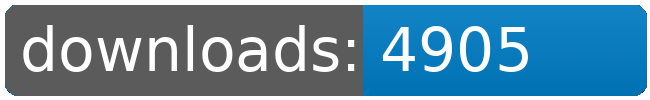
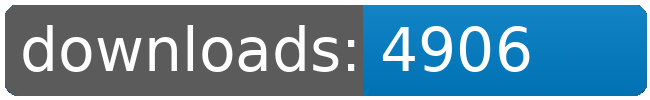
dl log written

Changed region(s): [[0.7692, 0.24, 0.8308, 0.72]]

diff --git a/README.md b/README.md
@@ -43,8 +43,8 @@
 		<td>5342</td>
 		<td>5374</td>
 		<td>5399</td>
-		<td>5418</td>
-		<td>+ 19</td>
+		<td>5419</td>
+		<td>+ 20</td>
 	</tr>
 	<tr>
 		<td>Jaws</td>
@@ -76,8 +76,8 @@
 		<td>4829</td>
 		<td>4864</td>
 		<td>4889</td>
-		<td>4905</td>
-		<td>+ 16</td>
+		<td>4906</td>
+		<td>+ 17</td>
 	</tr>
 	<tr>
 		<td>Solar.Sails</td>
@@ -109,8 +109,8 @@
 		<td></td>
 		<td></td>
 		<td></td>
-		<td>36275</td>
-		<td>145</td>
+		<td>36277</td>
+		<td>147</td>
 	</tr>
 </table>
 </sub></sup>
@@ -135,8 +135,8 @@
 		<td>5342</td>
 		<td>5374</td>
 		<td>5399</td>
-		<td>5418</td>
-		<td>+ 19</td>
+		<td>5419</td>
+		<td>+ 20</td>
 	</tr>
 	<tr>
 		<td>Louise.Conglomerate.Shipyards</td>
@@ -146,8 +146,8 @@
 		<td>4829</td>
 		<td>4864</td>
 		<td>4889</td>
-		<td>4905</td>
-		<td>+ 16</td>
+		<td>4906</td>
+		<td>+ 17</td>
 	</tr>
 	<tr>
 		<td>Korunak.Defense.Drones</td>
@@ -223,8 +223,8 @@
 		<td></td>
 		<td></td>
 		<td></td>
-		<td>36275</td>
-		<td>145</td>
+		<td>36277</td>
+		<td>147</td>
 	</tr>
 </table>
 </sub></sup>
